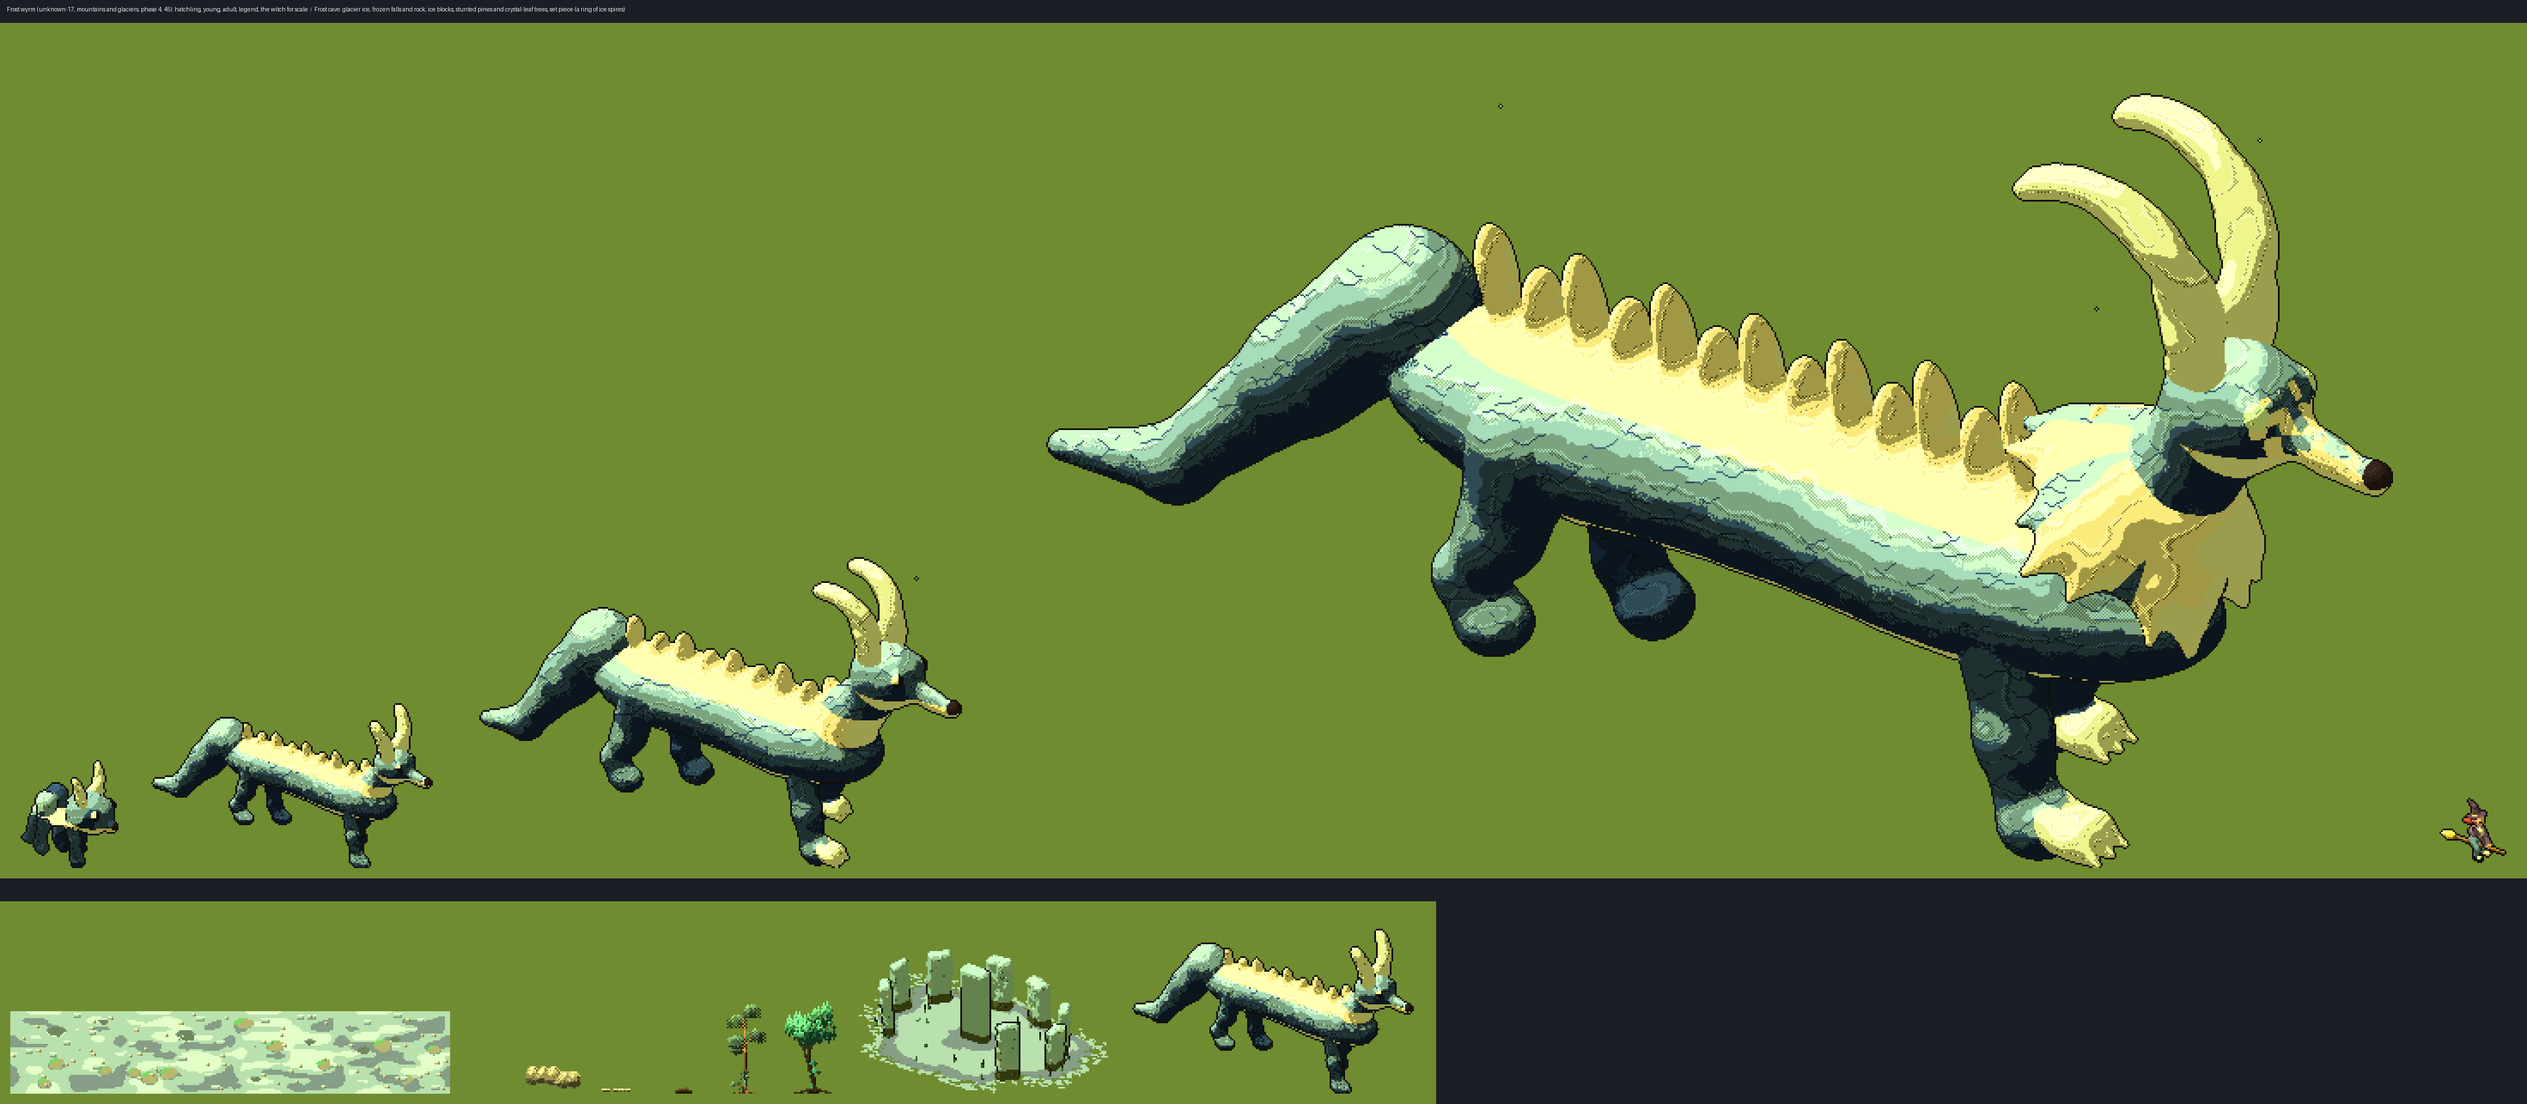
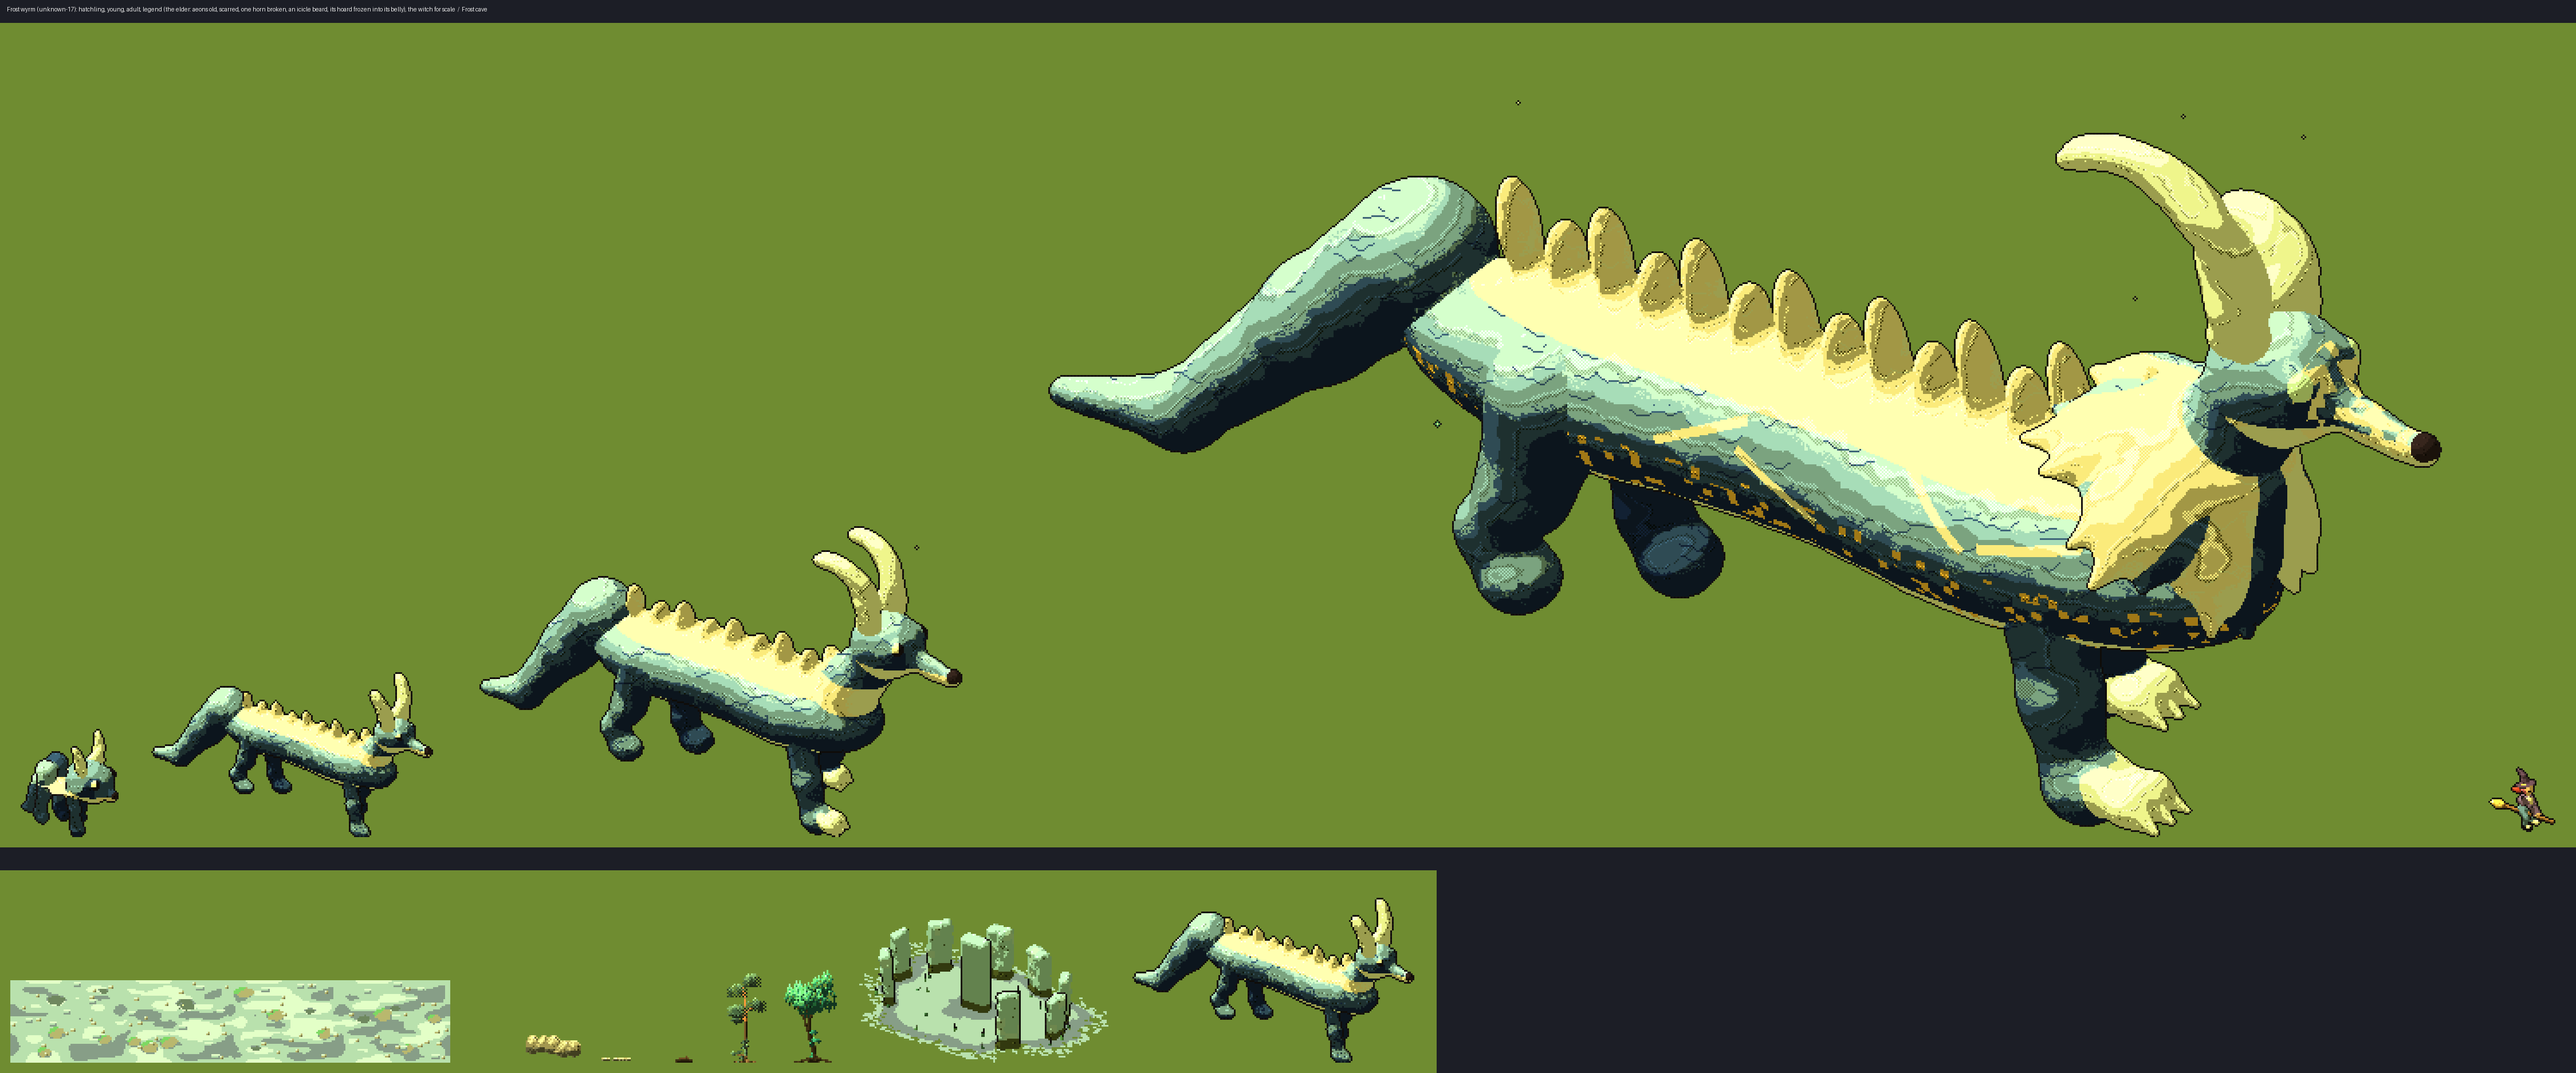
Mocks: the frost wyrm's and griffin's legends reworked to Ed's brief (ART-GUIDE 0c, the elder of its kind)
The quad builder's elder marks: scars (coat.scars), a hoard frozen into the belly (coat.hoard), an old gold harness (coat.harness), a
broken horn (head.hornBroken), gold in the palette's flower.

Claude-Session: https://claude.ai/code/session_014acVVHVwbRfeD46pBsk634

Changed region(s): [[0.0, 0.0619, 1.0, 1.0], [0.0, 0.8975, 0.2484, 0.9904], [0.0, 0.0, 0.1863, 0.0309]]

diff --git a/art/genome/species.js b/art/genome/species.js
@@ -192,29 +192,28 @@ export const GENOMES = [
   // the frost cave's frost wyrm (a journey kind: unknown-17's, mountains and glaciers; mock): a wingless ice dragon, long and low, a
   // long neck and a crocodile's snout, swept-back horns, a crest of ice-blue plates and a long tapering tail; its legend the thing
   // that makes it a wyrm: a body and tail so long it winds like a river of ice, great horns and a beard of icicles
-  { id: "frostwyrm", name: "Frost wyrm", template: "quadruped", builder: "quad", palette: { hue: .6, sat: .55, val: .9, belly: "white", accent: [.55, .1, .98], magic: .52 }, body: { hgt: 1.4, len: .95, chest: .52, tuck: .56, neck: .7, neckAng: .95, neckW: .3, hr: .21, legW: 1.0, bw: .27 }, head: { snout: 1.3, snoutD: .5, snoutTaper: .6, eyeK: .8, horn: { length: 3, curl: .7, twist: 1, back: .25, up: 0, r: .3, out: .2 } }, parts: { ears: { kind: "none" }, tail: "otter", feet: "paw", horns: "twist" }, coat: { belly: true, ridge: 1.4, ridgeMat: "BELLY" }, legend: ["mane"], texture: { kind: "scales" },
+  { id: "frostwyrm", name: "Frost wyrm", template: "quadruped", builder: "quad", palette: { hue: .6, sat: .55, val: .9, belly: "white", accent: [.55, .1, .98], magic: .52, flower: [232, 184, 72] }, body: { hgt: 1.4, len: .95, chest: .52, tuck: .56, neck: .7, neckAng: .95, neckW: .3, hr: .21, legW: 1.0, bw: .27 }, head: { snout: 1.3, snoutD: .5, snoutTaper: .6, eyeK: .8, horn: { length: 3, curl: .7, twist: 1, back: .25, up: 0, r: .3, out: .2 } }, parts: { ears: { kind: "none" }, tail: "otter", feet: "paw", horns: "twist" }, coat: { belly: true, ridge: 1.4, ridgeMat: "BELLY" }, legend: ["mane"], texture: { kind: "scales" },
     levels: [
       { body: { len: .7, neck: .4, hr: .3, legW: 1.2 }, head: { snout: .8, horn: { length: 1.4, curl: .2, twist: 1, r: .28 } }, coat: { ridge: .8 } },
       { body: { len: 1.0, neck: .55 }, head: { snout: 1.2, horn: { length: 2.4, curl: .3, twist: 1, r: .3 } } },
       { features: [{ kind: "claws", size: .14 }] },
-      { body: { len: 1.15, hgt: 1.55, neck: .85, legW: 1.1 }, head: { snout: 1.4, frost: true, eyeGlow: true, horn: { length: 4.6, curl: .8, twist: 1.5, back: .3, up: 0, r: .38, out: .25 } }, features: [
-        { kind: "ruff", size: .3, count: 18, mat: "BELLY" },
-        { kind: "claws", size: .2 },
+      { body: { len: 1.2, hgt: 1.6, neck: .8, legW: 1.2, front: 1.08 }, head: { snout: 1.45, frost: true, hornBroken: true, horn: { length: 4.6, curl: .8, twist: 1.5, back: .3, up: 0, r: .4, out: .25 } }, coat: { scars: 6, hoard: true }, features: [
+        { kind: "ruff", size: .34, count: 22, mat: "BELLY" }, // a beard of icicles grown over aeons
+        { kind: "claws", size: .24 },
       ] },
     ] },
   // the eyrie's griffin (a journey kind: unknown-18's, mountains and glaciers; mock): an eagle's white head, hooked gold beak and
   // feathered ear tufts on a lion's tawny body, eagle's wings and talons on its forelegs, a lion's tufted tail; its legend the thing
   // that makes it a griffin: wings vast as a sail, a crest of long white feathers, gold talons
-  { id: "griffin", name: "Griffin", template: "quadruped", builder: "quad", palette: { hue: .08, sat: .5, val: .72, belly: "white", accent: [.12, .75, .95], magic: .12 }, body: { hgt: 1.5, len: .72, chest: .55, tuck: .66, neck: .32, neckAng: .75, neckW: .4, hr: .25, legW: 1.05, bw: .28 }, head: { beak: 1, eyeK: .9, mask: true }, parts: { ears: { kind: "tuft", size: .9 }, tail: "tuft", feet: "paw" }, coat: { belly: true }, legend: ["mane"], texture: { kind: "feathers" },
+  { id: "griffin", name: "Griffin", template: "quadruped", builder: "quad", palette: { hue: .08, sat: .5, val: .72, belly: "white", accent: [.12, .75, .95], magic: .12, flower: [226, 176, 64] }, body: { hgt: 1.5, len: .72, chest: .55, tuck: .66, neck: .32, neckAng: .75, neckW: .4, hr: .25, legW: 1.05, bw: .28 }, head: { beak: 1, eyeK: .9, mask: true }, parts: { ears: { kind: "tuft", size: .9 }, tail: "tuft", feet: "paw" }, coat: { belly: true }, legend: ["mane"], texture: { kind: "feathers" },
     levels: [
       { body: { len: .5, hr: .32, legW: 1.2 }, head: { beak: .7 }, features: [{ kind: "wings", feathered: true, nub: true, size: .8, mat: "BELLY", mat2: "BODY" }] },
       { body: { len: .7 }, features: [{ kind: "wings", feathered: true, size: .8, mat: "BODY", mat2: "BELLY" }, { kind: "ruff", size: .1, count: 10, mat: "BELLY" }] },
       { features: [{ kind: "wings", feathered: true, size: 1, mat: "BODY", mat2: "BELLY" }, { kind: "ruff", size: .16, count: 14, mat: "BELLY" }, { kind: "claws", size: .16, mat: "ACCENT" }] },
-      { body: { hgt: 1.6, len: .78, front: 1.1 }, head: { beak: 1.15, eyeGlow: true }, features: [
-        { kind: "wings", feathered: true, size: 1.7, mat: "BODY", mat2: "BELLY" },
-        { kind: "ruff", size: .34, count: 22, mat: "BELLY" },
-        { kind: "mane", from: .75, to: 1, height: .3, count: 9, lean: .6, mat: "BELLY" },
-        { kind: "claws", size: .24, mat: "ACCENT" },
+      { body: { hgt: 1.6, len: .78, front: 1.12, legW: 1.15 }, head: { beak: 1.2 }, coat: { scars: 4, harness: true }, features: [
+        { kind: "wings", feathered: true, size: 1.25, mat: "BODY", mat2: "BELLY" },
+        { kind: "ruff", size: .3, count: 20, mat: "BELLY" },
+        { kind: "claws", size: .26, mat: "FLOWER" },
       ] },
     ] },
   { id: "glowworm", name: "Glow-worm", template: "serpent", builder: "glowworm", palette: { hue: .12, sat: .4, val: .35 }, legend: ["lantern"] , texture: { kind: "plates", size: 3 } },

diff --git a/art/creatures3d.js b/art/creatures3d.js
@@ -298,7 +298,13 @@ export function quad3d(S, level, frame, st, facing = "towards") {
   const hump = q.back === "hump" ? q.hump ?? .1 * (q.humpK ?? 1) : 0, arch = q.back === "arch" ? .1 * (q.archK ?? 1) : 0, front = q.front ?? 1; // front: a heavier front (an adult boar's)
   // ---- markings, painted by where a point is on the body ----
   const bellyY = chest + .12;
+  // an elder's marks (docs/ART-GUIDE.md 0c): old scars across its hide, a hoard frozen into it, an old gold harness
+  const SCARS = [[.4, .75, .3, -.6, .9], [-.2, .7, .35, .5, .85], [.15, .6, -.32, -.4, .9], [-.5, .65, -.3, .7, .7], [.65, .7, .25, .2, 1], [0, .55, .3, -.9, .4]];
+  const scarAt = p => { for (let i = 0; i < (q.scars || 0); i++) { const [x, y, z, a, b] = SCARS[i % SCARS.length], c = [x * len, y * top + (1 - y) * chest, z], d = v3.norm([Math.cos(a), Math.sin(a) * b, 0]), w = v3.sub(p, c), along = v3.dot(w, d), across = Math.abs(v3.dot(w, v3.norm([-d[1], d[0], 0]))); if (Math.abs(along) < .16 && across < .014 && p[2] * Math.sign(z || 1) > -bw * .2) return M.BELLY; } return undefined; };
   const paintBody = p => {
+    const sc = scarAt(p); if (sc) return sc;
+    if (q.hoard && p[1] < (chest + top) / 2 && spotty(p, 34, .14)) return M.FLOWER; // its hoard frozen into its underside: coins and cups in the ice of its belly
+    if (q.harness && (Math.abs(p[0] - len * .32) < .045 || (p[0] > len * .9 && p[1] < top - .12))) return M.FLOWER; // the girth strap and the breastplate of an old gold harness
     if (q.belly && p[1] < bellyY && p[0] > -len * .5) return M.BELLY;
     if (q.saddle && p[1] > top - .18 && p[0] < len * .55) return M.BODY2;
     if (q.spots === "solid") { const k = 24, f = p.map(c => c * k - Math.floor(c * k) - .5); if (f[0] * f[0] + f[1] * f[1] + f[2] * f[2] < .16 && spotty(p, k, .6)) return M.NOSE; } // a cheetah's: small round solid dots all over
@@ -379,7 +385,7 @@ export function quad3d(S, level, frame, st, facing = "towards") {
   m.part = "head";
   // ---- horns, antlers, tusks ----
   const hornTips = [];
-  if (q.horns === "twist") for (const side of [-1, 1]) hornTips.push(horn3d(m, [H[0] - hr * (.05 + (q.horn?.back ?? 0)), H[1] + hr * (.6 + (q.horn?.up ?? 0)), side * hr * (.45 + (q.horn?.wide ?? 0))], side, /* back, up, wide: its base moved, in head radii (clear of the brows) */ { ...q.horn, length: (q.horn?.length ?? 2) * hr, r: (q.horn?.r ?? .3) * hr }));
+  if (q.horns === "twist") for (const side of [-1, 1]) hornTips.push(horn3d(m, [H[0] - hr * (.05 + (q.horn?.back ?? 0)), H[1] + hr * (.6 + (q.horn?.up ?? 0)), side * hr * (.45 + (q.horn?.wide ?? 0))], side, /* back, up, wide: its base moved, in head radii (clear of the brows) */ { ...q.horn, length: (q.horn?.length ?? 2) * hr * (q.hornBroken && side < 0 ? .45 : 1), r: (q.horn?.r ?? .3) * hr }));
   else if (q.horns) for (const side of [-1, 1]) { const k = has("hornsGlow") ? 1.5 : sz("horns"), pts = []; for (let i = 0; i <= 8; i++) { const a = .3 - i / 8 * Math.PI * 1.6, r = hr * .65 * k * (1 - .45 * i / 8); pts.push([H[0] - hr * .1 + Math.cos(a) * r, H[1] + hr * .45 + Math.sin(a) * r, side * (hr * .6 + i * .015)]); pts[i].push(hr * .2 * k * (1 - .6 * i / 8)); } m.chain(pts, has("hornsGlow") ? M.MAGIC : M.ACCENT, { group: 13 }); }
   if (q.antlers || has("jackalope")) for (const side of [-1, 1]) antlers3d(m, q, [H[0] - hr * .05, H[1] + hr * .75, side * hr * .4], side, sz("antlers"), has);
   const tuskTips = [];
